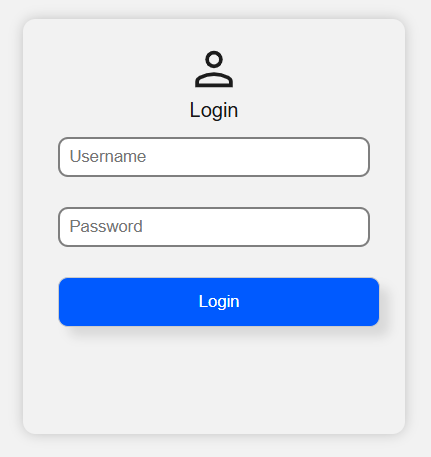
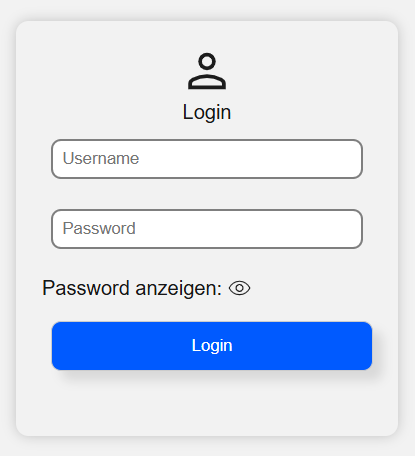
added docu

Changed region(s): [[0.0867, 0.5833, 0.8964, 0.8289], [0.1157, 0.0921, 0.8964, 0.3991], [0.1157, 0.4298, 0.8964, 0.5526]]

diff --git a/docs/DOKU.md b/docs/DOKU.md
@@ -72,7 +72,7 @@ Dann muss eine ".env.local" im frontend Ordner ein mit
 ``NEXT_PUBLIC_BACKEND_URL=<BACKENDURL EINSETZEN>
 `` vorhandensein.  
 Mögliche werte:
-- Lokales backend:   http://localhost:3500
+- Lokales backend:   http://localhost:6000
 - Hosted backend:   https://stechuhr-production-2a78.up.railway.app
 
 Zum Starten ``npm run dev``
@@ -116,7 +116,7 @@ Beim build muss eine ".env.local" im frontend Ordner ein mit
 ``NEXT_PUBLIC_BACKEND_URL=<BACKENDURL EINSETZEN>
 `` vorhandensein.  
 Mögliche werte:
-- Lokales backend:   http://localhost:3500
+- Lokales backend:   http://localhost:6000
 - Hosted backend:   https://stechuhr-production-2a78.up.railway.app
 
 
@@ -158,12 +158,12 @@ Backend (Terminal 1):
 
 
 
-# Was macht die Anwendung
+# Was macht die Anwendung (Mika)
 Die Anwendung dient zur Erfassung von Arbeitszeiten von Nutzern. Zudem erhält man einen Überblick über seine Zeiteinträge und kann diese jederzeit einsehen. Es gibt drei verschiedene Rollen von Anwendern:
 
 ## Rollen
 ### User
-Als User ist es möglich sich über die Timecard ein- und auszustechen. Man erhält eine Überischt über die heute gearbeiteten Stunden, und über sein Saldo für den Tag, Woche und Monat. Im Kalender kann man außerdem auf einen Blick seine Zeitereignisse sehen. 
+Als User ist es möglich sich über die Timecard ein- und auszustechen. Man erhält eine Übersicht über die heute gearbeiteten Stunden, und über sein Saldo für den Tag, Woche und Monat. Im Kalender kann man außerdem auf einen Blick seine Zeitereignisse sehen. 
 Zudem ist es möglich Abwesenheitsanträge in Form von Urlaub oder Krankheit zu erstellen. Auch vergessene Ein- und Ausstechzeiten kann man nachtragen.
 
 ### Manager
@@ -175,14 +175,69 @@ Als Admin ist es nicht möglich sich einzustechen, bzw. Zeiteinträge, Abwesenhe
 ## Login
 | Bild | Beschreibung |
 |------|--------------|
-| <img src="images/login/LoginPage.png" width="1500"> | Die Login-Seite dient zur Anmeldung des Benutzers. Es gibt zwei Textfelder. In das obere Feld wird der Benutzername eingegeben, in das untere das Passwort. Nach erfolgreicher Eingabe gelangt der Benutzer über den Button "Login“ auf sein Dashboard. |
+| <img src="images/login/LoginPage.png" width="600"> | Die Login-Seite dient zur Anmeldung des Benutzers. Es gibt zwei Textfelder. In das obere Feld wird der Benutzername eingegeben, in das untere das Passwort. Durch einen Klick auf das Augensymbol kann man sein eingegebenes Passwort anzeigen lassen. Nach erfolgreicher Eingabe gelangt der Benutzer über den Button "Login“ auf sein Dashboard. |
+| <img src="images/login/otpForm.png" width="600"> | Falls man sein Passwort zurücksetzt bekommt man vom Admin ein Einmalpasswort mit welchem man nach Eingabe sein Passwort ändern kann. Hierzu gibt es ein Popup, in welchem man das neue Passwort zwei mal eingeben muss, um dann mit "Fertig" zu bestätigen. |
+
+## Logout Button
+| Bild | Beschreibung |
+|------|--------------|
+| <img src="images/login/LogoutButton.png" width="600"> | Per Klick auf den Logout Button wird der Benutzer ausgeloggt und man wird zurück zum [Login](#login) gebracht. |
 
 ## Timecard
 | Bild | Beschreibung |
 |------|--------------|
-| <img src="images/login/LoginPage.png" width="1500"> | Über die Timecard ist es möglich sich ein- und auszustechen. Dies erfolgt über den grünen/roten Button. Nachdem man auf einstempeln bzw. auf ausstempeln geklickt hat wird der Button für einen Moment deaktiviert und zeigt einen spinner an. Dies liegt daran das der Button seinen Zustand erst ändert, wenn die Änderungen bereits erfolgreich in die Datenbank übernommen wurden. Die Timecard zeigt zudem auch die aktuelle Uhrzeit, ob man bereits ein- oder ausgestemeplt ist und wie lange man an dem aktuellen Tag schon gearbeitet hat. Ganz unten gibt es einen Button "xy" welcher auf das xy verweißt. |
+| <img src="images/dashboard/Timecard.png" width="1000"> | Über die Timecard ist es möglich sich ein- und auszustechen. Dies erfolgt über den grünen/roten Button. Nachdem man auf einstempeln bzw. auf ausstempeln geklickt hat wird der Button für einen Moment deaktiviert und zeigt einen Spinner an. Dies liegt daran dass der Button seinen Zustand erst ändert, wenn die Änderungen bereits erfolgreich in die Datenbank übernommen wurden. Die Timecard zeigt zudem auch die aktuelle Uhrzeit, ob man bereits ein- oder ausgestempelt ist und wie lange man an dem aktuellen Tag schon gearbeitet hat. Ganz unten gibt es den Button "Stunden-Übersicht", mit welchem man die [Stunden-Übersicht](#stunden-übersicht) öffnen kann. |
 
-## xy
+## Stunden-Übersicht
+| Bild | Beschreibung |
+|------|--------------|
+| <img src="images/dashboard/TimeOverview.png" width="1500"> | Die Stunden-Übersicht hat die Hauptaufgabe dem Benutzer sein aktuelles Saldo anzuzeigen. Hierfür kann man über eine Auswahl oben sein Saldo für den heutigen Tag, für die Woche oder für den Monat anzeigen. Zudem sieht man neben dem Saldo auch die Soll Arbeitszeit und die Ist-Arbeitszeit. Im unteren Bereich sieht man dann noch die zugehörigen Zeiteinträge des Tages, der Woche oder des Monats, je nachdem was man ausgewählt hat. Beim Hovern über einen Zeiteintrag kann man diesen auch per Klick auf den Papierkorb löschen. |
+
+## Kalender
+| Bild | Beschreibung |
+|------|--------------|
+| <img src="images/dashboard/Calender.png" width="3000"> | Der Kalender dient zur Anzeige der bereits eingetragenen Zeiteinträge. Oben links sieht man das aktuelle Jahr und den gerade ausgewählten Monat. Auf der rechten Seite findet man den Button "Heute" und zwei Pfeile. Diese Komponenten dienen zum Navigieren im Kalender. Mit dem "Heute"-Button wird man immer zu dem Monat gebracht in dem sich das heutige Datum befindet. Über die Pfeile kann man einen Monat nach vorn oder nach hinten springen. Im Kalender werden die verschiedenen Einträge mit verschiedenen Farben markiert. Durch die Legende im unteren Teil des Kalenders wird die Bedeutung jeder Farbe deutlich. Zeiteinträge werden immer nur klein im Kalender angezeigt. Bei Krankheiten, Urlaub, Wochenenden und Feiertagen werden die Tage komplett eingefärbt. Per Klick auf die [Tagesanzeige](#tagesanzeige) öffnet sich die Tagesansicht. |
+
+## Tagesanzeige
+| Bild | Beschreibung |
+|------|--------------|
+| <img src="images/dashboard/ShowDay.png" width="600"> | Die Tagesanzeige öffnet sich, wenn man auf einen Tag des Kalenders klickt. Es öffnet sich ein Side Panel und dort werden alle Zeiteinträge dieses Tages angezeigt. Unten hat man über zwei Buttons noch die Option um [manuell nachzutragen](#manuell-nachtragen) und um einen [Antrag zu erstellen](#antrag-erstellen). |
+
+## Manuell-nachtragen
+| Bild | Beschreibung |
+|------|--------------|
+| <img src="images/dashboard/AddEntryManuel.png" width="600"> | Beim manuellen Nachtragen gibt man zuerst die Einstempelzeit an. Die Ausstempelzeit ist optional und kann per Checkbox mitgegeben oder weggelassen werden, wenn man sich zum Beispiel am Morgen vergessen hat einzustechen aber noch am Arbeiten ist. |
+| <img src="images/dashboard/AddEntryManuel2.png" width="600"> | Über den Button "Eintrag hinzufügen" kann man den Eintrag letztendlich hinzufügen. Dies geht ohne Genehmigung. Alternativ kann man über "Abbrechen" den Entwurf verwerfen. |
+
+## Antrag-erstellen
+| Bild | Beschreibung |
+|------|--------------|
+| <img src="images/dashboard/CreateEntry.png" width="850"> | Beim Erstellen eines Antrages kann man zunächst zwischen Krankheit und Urlaub auswählen. Als nächstes gibt man Start- und Enddatum an. Dies kann man entweder direkt selber eingeben, oder man geht über das Kalender Icon. Hier wird dann ein kleiner Kalender geöffnet bei dem man den richtigen Tag auswählen kann. Optional kann man noch eine Bemerkung mit Angeben. |
+| <img src="images/dashboard/CreateEntry2.png" width="850"> | Abschließend kann man mit dem "Antrag erstellen" Button den Antrag erstellen, welcher aber erst vom zugehörigen Manager angenommen werden muss, bevor er in den Kalender geschrieben wird. Alternativ kann man über den Button "Abbrechen" den Entwurf verwerfen. |
+
+## Notifications
+| Bild | Beschreibung |
+|------|--------------|
+| <img src="images/dashboard/NotificationIcon.png" width="600"> | Beim Klick auf die Glocke im oberen Bildrand auf dem Dashboard kann man sich seine aktuellen Benachrichtigungen/Notifications anzeigen lassen. |
+| <img src="images/dashboard/Notifications.png" width="600"> | Dafür öffnet sich eine Side Pane welche alle aktuellen Nachrichten anzeigt. Wenn man auf eine bestimmte Benachrichtigung geht, kann man per Klick auf "Ungelesen" die Nachricht auf "Gelesen" umstellen. Per Klick auf den Knopf "Löschen" kann man die einzelne Benachrichtigung löschen. |
+
+## Manager Ansicht
+| Bild | Beschreibung |
+|------|--------------|
+| <img src="images/managerView/ManagerViewButton.png" width="600"> | Diese Funktion ist nur bei Benutzern mit der [Rolle Manager](#rollen) verfügbar! Über den Button "Manager-Ansicht" oben links auf dem Dashboard, kommt man zur Manager Ansicht. |
+| <img src="images/managerView/managerView.png" width="600"> | Hier sieht man alle Nutzer für welche man zuständig ist. Man kann die Urlaubstage, Krankheitstage und die wöchentlich gearbeitete Stunden der Nutzer ansehen. |
+| <img src="images/managerView/noSubordinates.png" width="600"> | Falls man keine zugewiesenen Benutzer hat wird die Meldung "Sie haben keine Mitarbeiter zu verwalten" angezeigt. |
+| <img src="images/managerView/popupEdit.png" width="600"> | Über den Button "Bearbeiten" kann man die Urlaubstage und Arbeitstage eines Benutzers anpassen. |
+| <img src="images/managerView/popupRequests.png" width="600"> | Zudem kann man über den Button "Anträge" einsehen welche offenen Anträge ein Benutzer aktuell hat. Über die Buttons "Genehmigen" und "Ablehnen", kann man die Anträge bearbeiten. |
+
+## Admin Ansicht
+| Bild | Beschreibung |
+|------|--------------|
+| <img src="images/adminView/AdminViewButton.png" width="600"> | Diese Funktion ist nur bei Benutzern mit der [Rolle Admin](#rollen) verfügbar! Über den Button "Admin-Ansicht" oben links auf dem Dashboard, kommt man zur Admin Ansicht. |
+| <img src="images/adminView/AdminView.png" width="600"> | Hier sieht man alle Nutzer welche registriert sind. |
+| <img src="images/adminView/CreateNewUser.png" width="600"> | Über den Button "Nutzer anlegen" öffnet sich ein PopUp über welches man neue Benutzer anlegen kann. Hier benötigt man die Eingabe von dem Nutzernamen, der Rolle, dem Manager, die Arbeitsstunden pro Woche und die Urlaubstage pro Jahr. Über den Button "Anlegen" wird der Benutzer erstellt. |
+| <img src="images/adminView/UpdateUser.png" width="600"> | Zudem hat man bei jedem Benutzer noch die Möglichkeiten ihn zu löschen (roter Papierkorb), ihn zu bearbeiten (blauer Stift) und sein Passwort zurückzusetzen (gelber Reset). Beim Bearbeiten kann man dem Benutzer eine neue Rolle und/oder einen neuen Manager zuweisen. Mit "Bestätigen" oder "Abbrechen" beendet man seine Bearbeitung. |
+| <img src="images/adminView/OneTimePassword.png" width="600"> | Beim Passwort Reset wird auch ein Popup geöffnet, bei dem man ein Einmalpasswort angezeigt bekommt. Dieses gibt der Admin dann an den entsprechenden Benutzer weiter, damit dieser ein neues Passwort erstellen kann. ([siehe Login](#login)) |
 
 # Struktur des Repositories
 Das Repository ist als Monorepo in zwei Hauptteilen aufgebaut: Backend und Frontend. Zusätzlich liegt die Dokumentation des gesamten Monorepos im Ordner /docs.
